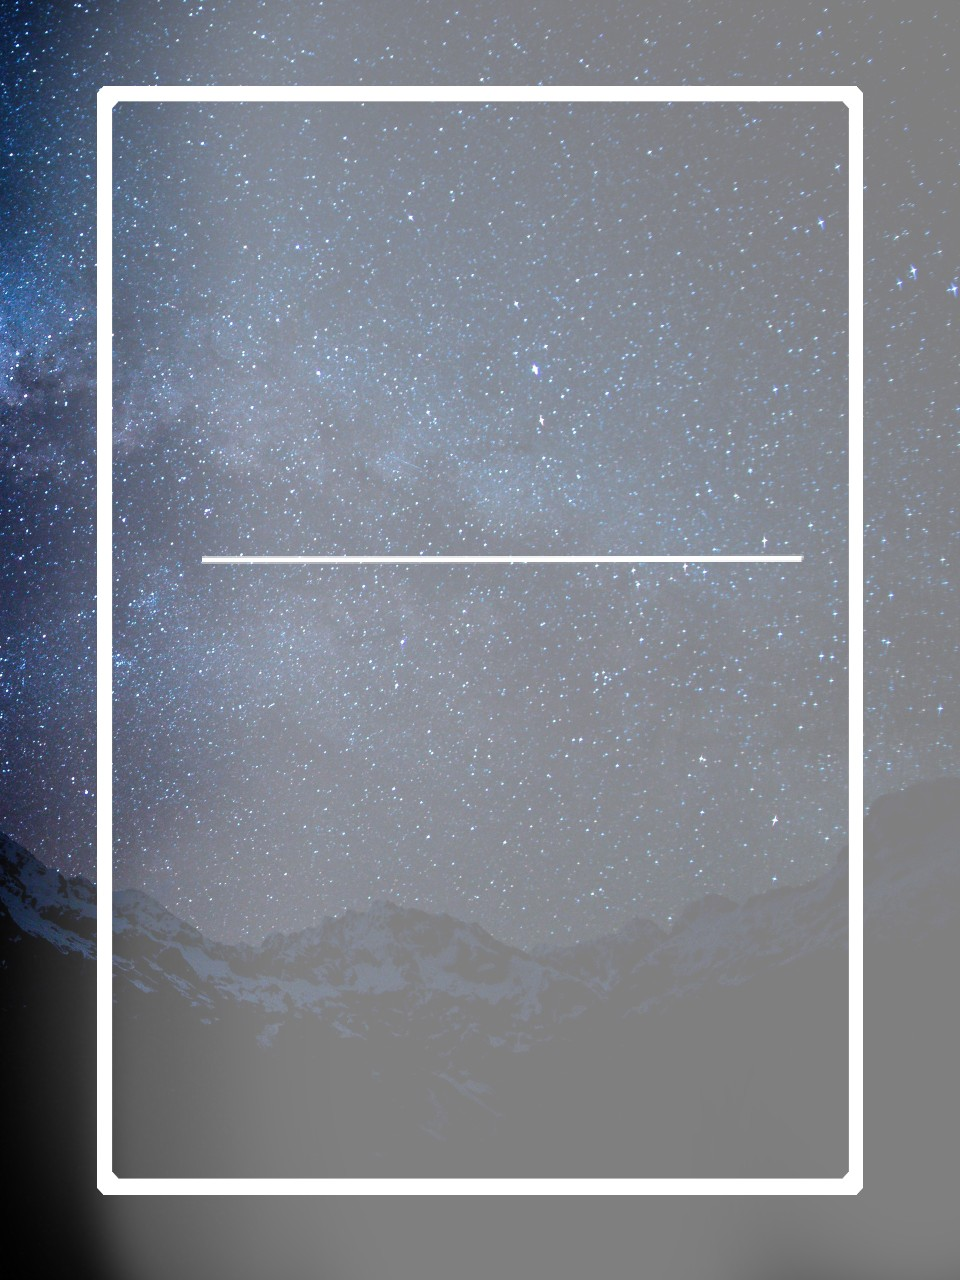
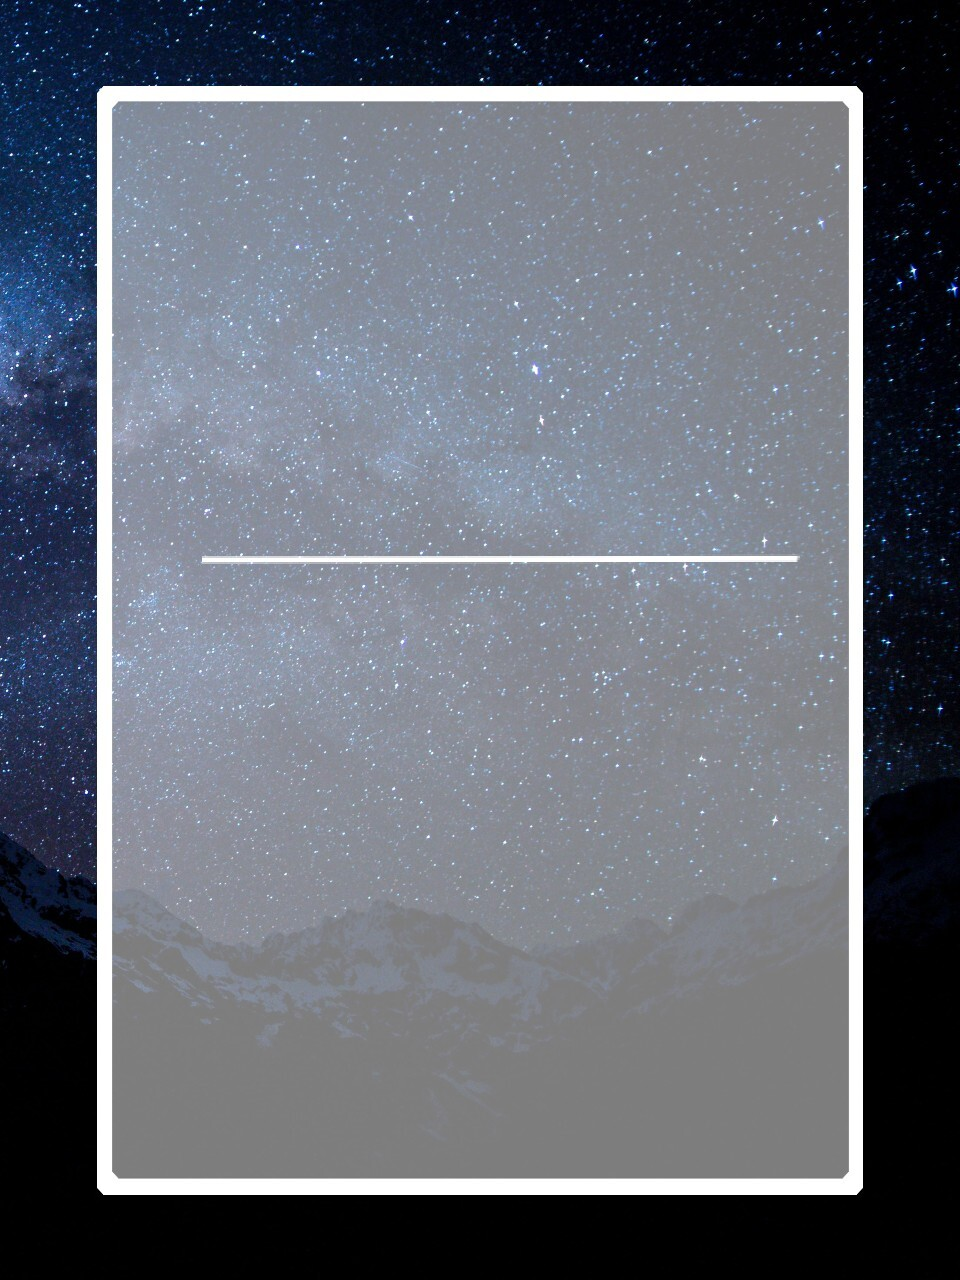
Page 1 (#12)
* 배경사진 변경

* 1장 디자인 수정

diff --git a/src/GUI_ver2/page_1.java b/src/GUI_ver2/page_1.java
@@ -1,10 +1,14 @@
 package GUI_ver2;
 
+import org.openqa.selenium.interactions.Mouse;
+
 import javax.swing.*;
 import javax.swing.border.LineBorder;
 import java.awt.*;
 import java.awt.event.ActionEvent;
 import java.awt.event.ActionListener;
+import java.awt.event.MouseAdapter;
+import java.awt.event.MouseEvent;
 import java.util.Vector;
 
 class panel1 extends JPanel{   // 1 페이지 panel 생성
@@ -90,49 +94,208 @@ class panel1 extends JPanel{   // 1 페이지 panel 생성
 }
 
 class panel2 extends JPanel{    // 2 페이지 panel 생성
-    private Vector<daily_schedule_real> V_S = new Vector<daily_schedule_real>();
+    private JLabel plans[] = new JLabel[7];
     private int cnt = 0;
+    private Image image;
+
     public panel2(){
-        JPanel all = new JPanel(new BorderLayout());
-        JPanel center = new JPanel(new FlowLayout());
-        JPanel south_btn = new JPanel(new FlowLayout(FlowLayout.RIGHT));
-        JButton s_btn = new JButton("추가");
-        JButton txt = new JButton("완료 시 나올 화면");
-        JLabel sch = new JLabel("추가 버튼을 눌러 일정을 추가하세요.");
+        this.setLayout(null);
 
-        south_btn.add(txt);
-        south_btn.add(s_btn);
-        south_btn.setBorder(new LineBorder(Color.RED,3));
-        center.add(sch);
-        center.setBorder(new LineBorder(Color.BLUE,3));
-        setLayout(new BorderLayout());
-        all.add(BorderLayout.CENTER, center);
-        all.add(BorderLayout.SOUTH, south_btn);
-        this.add(all);
+        for(int i = 0; i < 7; i++) {
+            plans[i] = new JLabel();
+            plans[i].setBounds(67, 142 + 30 * i, 308, 22);
+            plans[i].setVisible(true);
+            plans[i].setForeground(Color.WHITE);
+        }
 
-        s_btn.addActionListener(new ActionListener() {
+        drawPanel();
+    }
+
+    private void drawPanel() {
+        JPanel content = new JPanel();
+        content.setBounds(0, 0, 450, 520);
+        this.add(content);
+        content.setLayout(null);
+
+        for(int i = 0; i < 7; i++) {
+            String newPlan = plans[i].getText();
+            plans[i] = new JLabel(newPlan);
+            plans[i].setForeground(Color.WHITE);
+            plans[i].setFont(new Font("맑은 고딕", Font.PLAIN, 12));
+            plans[i].setBounds(67, 142 + 30 * i, 308, 22);
+            content.add(plans[i]);
+        }
+
+        JLabel scheduleTitle = new JLabel("추가 버튼을 눌러 일정을 추가하세요.");
+        scheduleTitle.setForeground(Color.WHITE);
+        scheduleTitle.setFont(new Font("맑은 고딕", Font.PLAIN, 12));
+        scheduleTitle.setBounds(125, 43, 210, 49);
+        content.add(scheduleTitle);
+
+        JButton addButton = new JButton("추가");
+        addButton.setBounds(320, 425, 76, 31);
+        content.add(addButton);
+        addButton.setForeground(Color.WHITE);
+        addButton.setContentAreaFilled(false);
+        addButton.setBorderPainted(false);
+        addButton.setFont(new Font("맑은 고딕", Font.PLAIN, 16));
+
+        addButton.addActionListener(new ActionListener() {
             @Override
             public void actionPerformed(ActionEvent e) {
-                if(cnt == 0){
-                    sch.setVisible(false);
+                if(cnt < 7) {
+                    removeAll();
+                    addingSchedule_gui addingSchedule = new addingSchedule_gui();
+                    addingSchedule.setBounds(85, 102, 292, 306);
+                    addingSchedule.setVisible(true);
+                    add(addingSchedule);
+                    drawPanel();
+                    revalidate();
+                    repaint();
                 }
-                center.setVisible(false);
-                daily_schedule_real new_one = new daily_schedule_real();
-                V_S.add(new_one);
-                center.add(V_S.elementAt(cnt));
-                cnt++;
-                center.setVisible(true);
             }
         });
 
-        txt.addActionListener(new ActionListener() {
-            @Override
-            public void actionPerformed(ActionEvent e) {
-                new explain_star();
+        // 배경화면 생성
+        image = new ImageIcon("src\\GUI_ver2\\image\\background.jpeg").getImage();
+        JPanel background = new JPanel() {
+            public void paintComponent(Graphics g) {
+                Dimension d = getSize();
+                g.drawImage(image, 0, 0, d.width, d.height, null);
+
+                setOpaque(false); // 그림 투명도
+                super.paintComponent(g);
             }
-        });
+        };
+        background.setBounds(0,0,450, 530);
+        content.add(background);
+    }
+
+    class addingSchedule_gui extends JPanel {
+        JLabel addingScheduleLable;
+        JLabel timeLabel;
+        JLabel addressLabel;
+        JLabel commentLabel;
+        JTextField addressTextField;
+        JTextField commentTextField;
+        JTextField timeTextField;
+        JButton createButton;
+        Image image;
+
+        public addingSchedule_gui() {
+            this.setLayout(null);
+            //this.setBounds(73, 102, 292, 306);
+
+            for(int i = 0; i < 7 ; i++) {
+                plans[i].setVisible(false);
+            }
+
+            addingScheduleLable = new JLabel("새로운 일정 추가");
+            addingScheduleLable.setForeground(Color.WHITE);
+            addingScheduleLable.setFont(new Font("맑은 고딕", Font.PLAIN, 16));
+            addingScheduleLable.setHorizontalAlignment(SwingConstants.CENTER);
+            addingScheduleLable.setBounds(41, 10, 207, 25);
+            this.add(addingScheduleLable);
+
+            timeLabel = new JLabel("시간");
+            timeLabel.setHorizontalAlignment(SwingConstants.CENTER);
+            timeLabel.setFont(new Font("맑은 고딕", Font.PLAIN, 14));
+            timeLabel.setForeground(Color.WHITE);
+            timeLabel.setBounds(29, 74, 65, 25);
+            timeLabel.setVisible(true);
+            this.add(timeLabel);
+
+            addressLabel = new JLabel("웹 주소");
+            addressLabel.setHorizontalAlignment(SwingConstants.CENTER);
+            addressLabel.setForeground(Color.WHITE);
+            addressLabel.setFont(new Font("맑은 고딕", Font.PLAIN, 14));
+            addressLabel.setBounds(29, 184, 65, 25);
+            this.add(addressLabel);
+
+            addressTextField = new JTextField();
+            addressTextField.setBounds(132, 188, 116, 21);
+            addressTextField.setBackground(Color.white);
+            addressTextField.setForeground(Color.gray);
+            addressTextField.setBorder(BorderFactory.createEmptyBorder(2 , 5 , 2 , 5));
+            this.add(addressTextField);
+            //addressTextField.setColumns(10);
+
+            commentLabel = new JLabel("코멘트");
+            commentLabel.setHorizontalAlignment(SwingConstants.CENTER);
+            commentLabel.setForeground(Color.WHITE);
+            commentLabel.setFont(new Font("맑은 고딕", Font.PLAIN, 14));
+            commentLabel.setBounds(29, 129, 65, 25);
+            this.add(commentLabel);
+
+            commentTextField = new JTextField();
+            //commentTextField.setColumns(10);
+            commentTextField.setBounds(132, 133, 116, 21);
+            commentTextField.setBackground(Color.white);
+            commentTextField.setForeground(Color.gray);
+            commentTextField.setBorder(BorderFactory.createEmptyBorder(2 , 5 , 2 , 5));
+            this.add(commentTextField);
+
+            timeTextField = new JTextField();
+            //timeTextField.setColumns(10);
+            timeTextField.setBounds(132, 78, 116, 21);
+            timeTextField.setBackground(Color.white);
+            timeTextField.setForeground(Color.gray);
+            timeTextField.setBorder(BorderFactory.createEmptyBorder(2 , 5 , 2 , 5));
+            this.add(timeTextField);
+
+            // 버튼에 마우스 대면 배경이 날아가는 오류!!
+            createButton = new JButton("생성");
+            createButton.setForeground(Color.WHITE);
+            createButton.setFont(new Font("맑은 고딕", Font.PLAIN, 16));
+            createButton.setOpaque(false);
+            createButton.setContentAreaFilled(false);
+            createButton.setBorderPainted(false);
+            createButton.setFocusPainted(false);
+            createButton.setBounds(193, 252, 76, 31);
+            createButton.addMouseListener(new MouseAdapter() {
+                @Override
+                public void mouseClicked(MouseEvent e) {
+                    plans[cnt].setText("* " + getTime() + " " + getComment());
+                    plans[cnt].setFont(new Font("맑은 고딕", Font.PLAIN, 12));
+                    for(JLabel plan_ : plans) {
+                        plan_.setVisible(true);
+                    }
+                    setVisible(false);
+                    removeAll();
+                    drawPanel();
+                    revalidate();
+                    repaint();
+                    cnt++;
+                }
+            });
+
+            this.add(createButton);
+
+            image = new ImageIcon("src\\GUI_ver2\\image\\rectangle.png").getImage();
+            JPanel background = new JPanel() {
+                public void paintComponent(Graphics g) {
+                    Dimension d = getSize();
+                    g.drawImage(image, 0, 0, 292, 306, null);
+                }
+            };
+            background.setBounds(0,0,450, 530);
+            this.add(background);
+        }
+
+        public String getComment() {
+            return commentTextField.getText();
+        }
+
+        public String getTime() {
+            return timeTextField.getText();
+        }
+
+        public String getAddress() {
+            return addressTextField.getText();
+        }
     }
 }
+
 
 public class page_1 extends JPanel{
     public page_1(){
